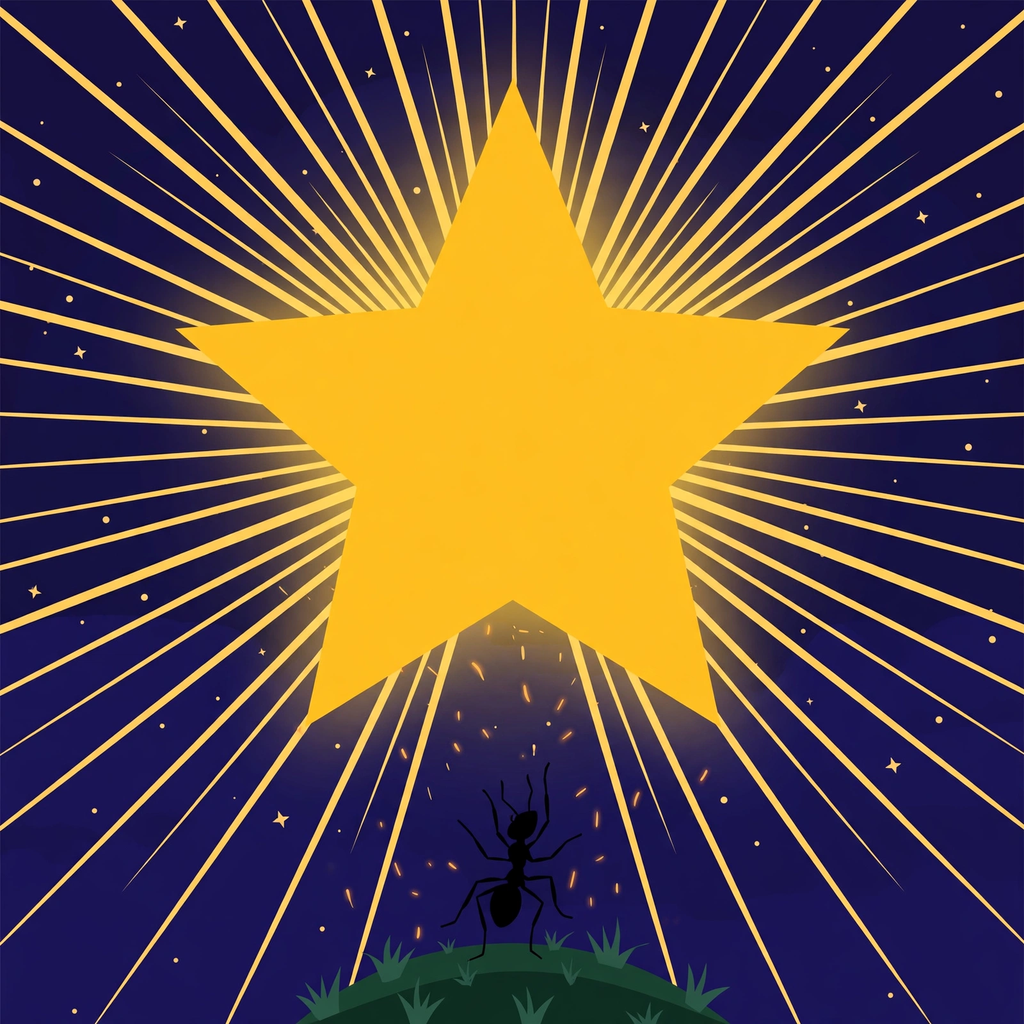
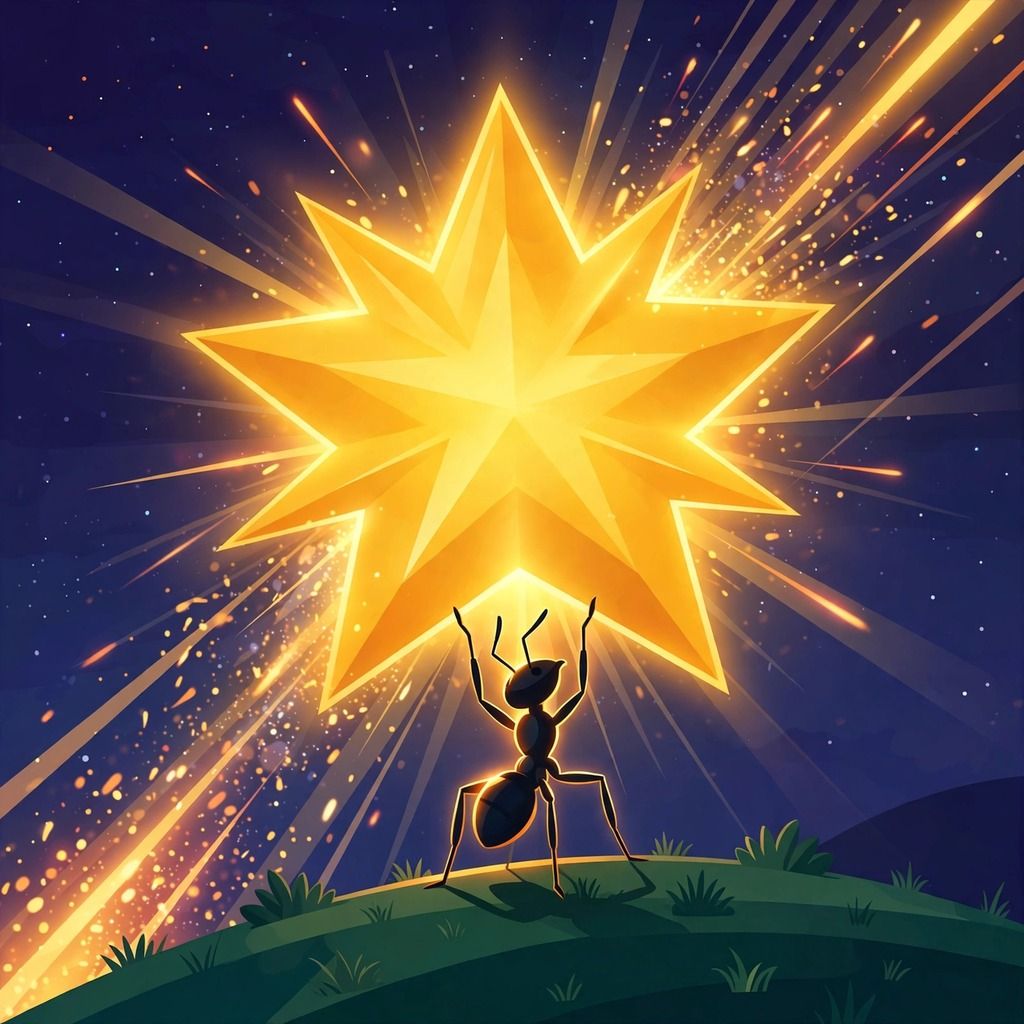
Rebuild in recorded session: ant lifting a giant star (fresh image, JPEG 1024x1024) + rewritten main.ts

diff --git a/main.ts b/main.ts
@@ -1,10 +1,10 @@
 // ai-excited-01 entry (Node 22, standard library only).
-// The image lives in this repository as entry.png. This program hands it in
-// by writing its exact bytes to /output/entry.png — nothing is redrawn,
-// re-encoded, or changed, so two runs produce byte-identical output.
+// The image is committed as entry.png (JPEG bytes under a .png name, which
+// the rules allow). This program hands it in unchanged: it copies the file's
+// exact bytes to /output/entry.png, so two runs write byte-identical output.
 //
-// Outside the grader, MAKEFUN_OUTPUT_DIR stands in for /output:
-//   mkdir -p out && MAKEFUN_OUTPUT_DIR=out node main.ts
+// Local test:
+//   MAKEFUN_OUTPUT_DIR=out node main.ts
 
 import { mkdirSync, readFileSync, writeFileSync } from 'node:fs';
 import { dirname, join } from 'node:path';
